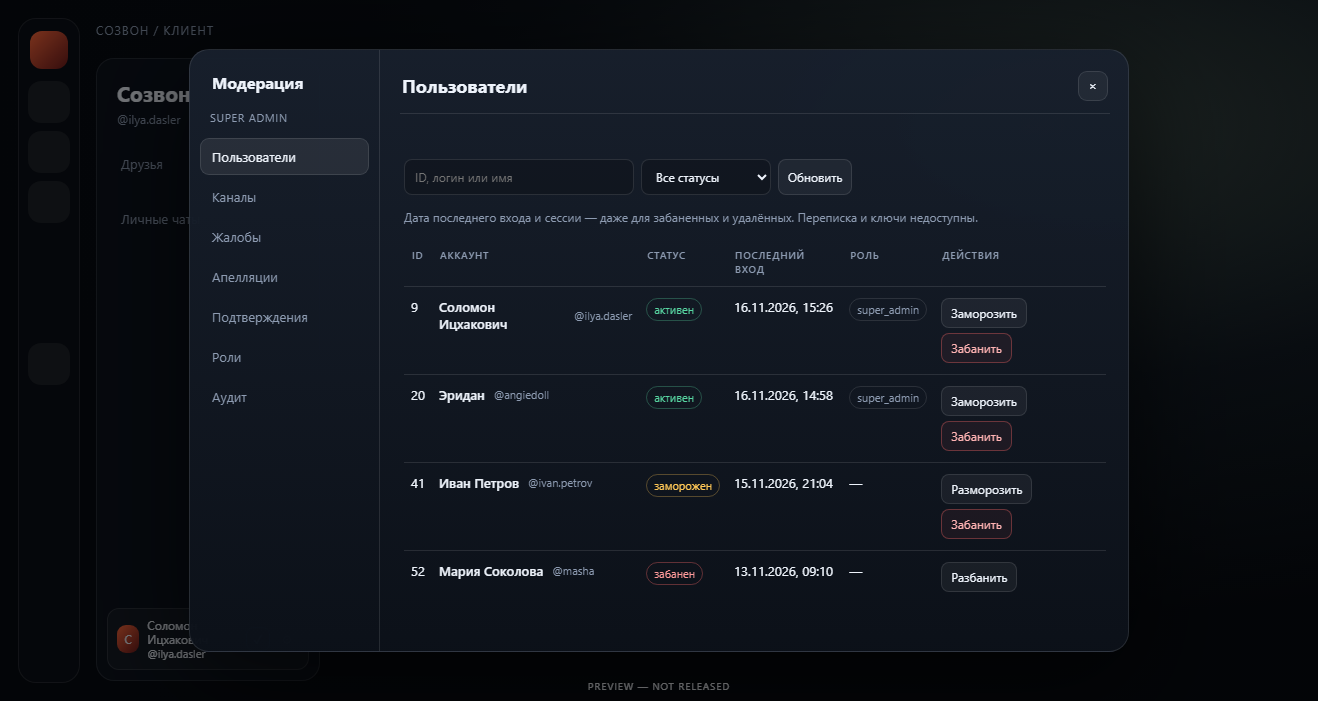
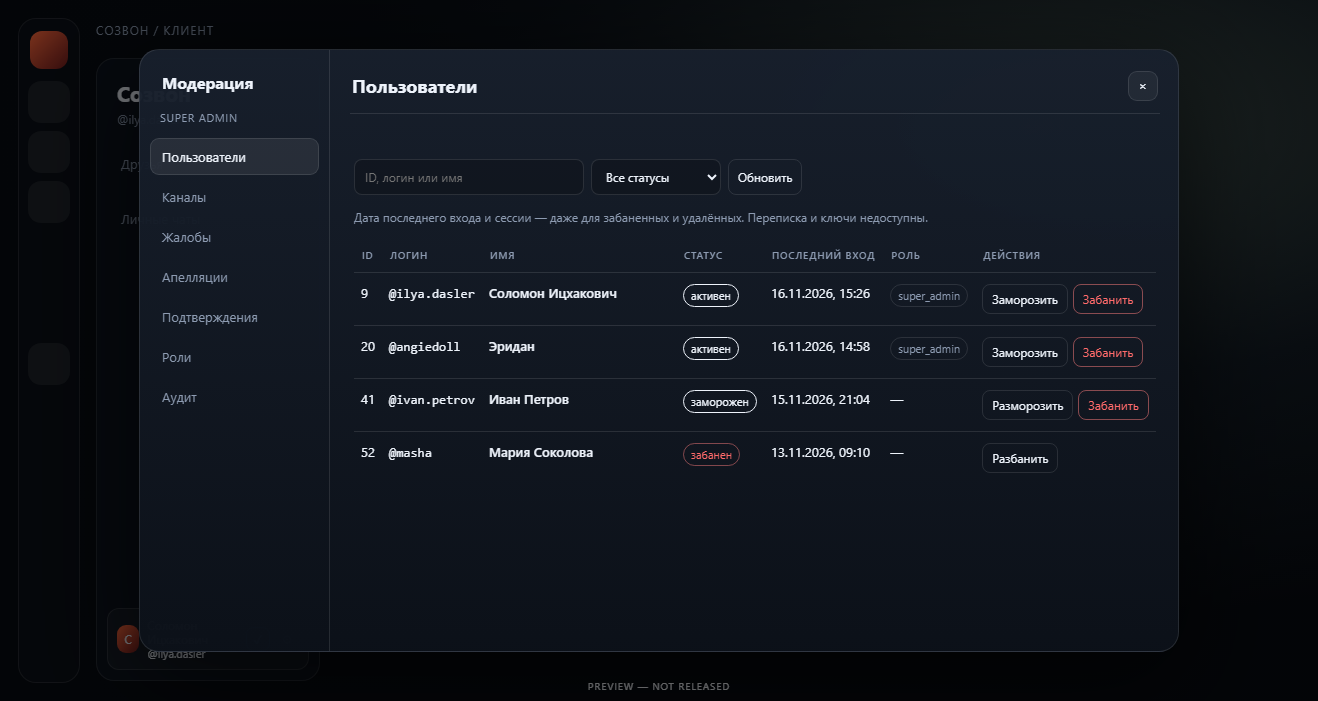
Show logins and theme moderation panel with app tokens

diff --git a/docs/moderation-preview.html b/docs/moderation-preview.html
@@ -45,7 +45,7 @@
     .btn { border:1px solid var(--line); background:rgba(255,255,255,.05); color:var(--text); border-radius:8px; padding:6px 9px; font:inherit; font-size:12px; }
     .btn.primary { background:var(--accent); color:#081020; border-color:var(--accent); font-weight:700; }
     .btn.danger { color:#ffb3b3; border-color:rgba(255,107,107,.35); background:rgba(255,107,107,.06); }
-    .moderation-card { width:min(940px,92vw); height:min(620px,86vh); grid-template-columns:190px minmax(0,1fr); overflow:hidden; }
+    .moderation-card { width:min(1040px,94vw); height:min(620px,86vh); grid-template-columns:190px minmax(0,1fr); overflow:hidden; }
     .moderation-content { overflow:hidden; }
     .demo-toolbar { display:flex; gap:7px; margin:0 0 14px; }
     .demo-toolbar input, .demo-toolbar select { border:1px solid var(--line); background:rgba(0,0,0,.18); color:var(--text); border-radius:8px; padding:8px 10px; font:inherit; font-size:12px; }
@@ -88,12 +88,12 @@
           <div class="demo-toolbar"><input placeholder="ID, логин или имя"><select><option>Все статусы</option></select><button class="btn">Обновить</button></div>
           <p class="mod-note">Дата последнего входа и сессии — даже для забаненных и удалённых. Переписка и ключи недоступны.</p>
           <table class="mod-table">
-            <thead><tr><th>ID</th><th>Аккаунт</th><th>Статус</th><th>Последний вход</th><th>Роль</th><th>Действия</th></tr></thead>
+            <thead><tr><th>ID</th><th>Логин</th><th>Имя</th><th>Статус</th><th>Последний вход</th><th>Роль</th><th>Действия</th></tr></thead>
             <tbody>
-              <tr><td>9</td><td><div class="mod-user">Соломон Ицхакович<div class="sub">@ilya.dasler</div></div></td><td><span class="mod-pill ok">активен</span></td><td>16.11.2026, 15:26</td><td><span class="mod-pill">super_admin</span></td><td><div class="mod-actions"><button class="btn">Заморозить</button><button class="btn danger">Забанить</button></div></td></tr>
-              <tr><td>20</td><td><div class="mod-user">Эридан<div class="sub">@angiedoll</div></div></td><td><span class="mod-pill ok">активен</span></td><td>16.11.2026, 14:58</td><td><span class="mod-pill">super_admin</span></td><td><div class="mod-actions"><button class="btn">Заморозить</button><button class="btn danger">Забанить</button></div></td></tr>
-              <tr><td>41</td><td><div class="mod-user">Иван Петров<div class="sub">@ivan.petrov</div></div></td><td><span class="mod-pill warn">заморожен</span></td><td>15.11.2026, 21:04</td><td>—</td><td><div class="mod-actions"><button class="btn">Разморозить</button><button class="btn danger">Забанить</button></div></td></tr>
-              <tr><td>52</td><td><div class="mod-user">Мария Соколова<div class="sub">@masha</div></div></td><td><span class="mod-pill danger">забанен</span></td><td>13.11.2026, 09:10</td><td>—</td><td><div class="mod-actions"><button class="btn">Разбанить</button></div></td></tr>
+              <tr><td>9</td><td><code>@ilya.dasler</code></td><td><div class="mod-user">Соломон Ицхакович</div></td><td><span class="mod-pill ok">активен</span></td><td>16.11.2026, 15:26</td><td><span class="mod-pill">super_admin</span></td><td><div class="mod-actions"><button class="btn">Заморозить</button><button class="btn danger">Забанить</button></div></td></tr>
+              <tr><td>20</td><td><code>@angiedoll</code></td><td><div class="mod-user">Эридан</div></td><td><span class="mod-pill ok">активен</span></td><td>16.11.2026, 14:58</td><td><span class="mod-pill">super_admin</span></td><td><div class="mod-actions"><button class="btn">Заморозить</button><button class="btn danger">Забанить</button></div></td></tr>
+              <tr><td>41</td><td><code>@ivan.petrov</code></td><td><div class="mod-user">Иван Петров</div></td><td><span class="mod-pill warn">заморожен</span></td><td>15.11.2026, 21:04</td><td>—</td><td><div class="mod-actions"><button class="btn">Разморозить</button><button class="btn danger">Забанить</button></div></td></tr>
+              <tr><td>52</td><td><code>@masha</code></td><td><div class="mod-user">Мария Соколова</div></td><td><span class="mod-pill danger">забанен</span></td><td>13.11.2026, 09:10</td><td>—</td><td><div class="mod-actions"><button class="btn">Разбанить</button></div></td></tr>
             </tbody>
           </table>
         </div>

diff --git a/client/renderer/moderation.css b/client/renderer/moderation.css
@@ -1,4 +1,6 @@
 .moderation-card {
+  background: var(--bg-2);
+  color: var(--text);
   width: min(1180px, 96vw);
   height: min(760px, 88vh);
   display: grid;
@@ -9,6 +11,9 @@
 .moderation-role { padding: 0 10px 10px; text-transform: uppercase; letter-spacing: .06em; font-size: 10px; }
 .moderation-main { min-width: 0; display: flex; flex-direction: column; }
 .moderation-content { min-width: 0; overflow: auto; padding: 0 4px 8px; }
+.moderation-content .btn { border-color: var(--line); background: var(--bg-3); color: var(--text); }
+.moderation-content .btn.primary { background: var(--accent); border-color: var(--accent); color: var(--accent-contrast, #fff); }
+.moderation-content .btn.danger { background: transparent; border-color: color-mix(in srgb, var(--danger) 45%, var(--line)); color: var(--danger); }
 .moderation-toolbar { display: flex; gap: 8px; flex-wrap: wrap; margin-bottom: 12px; }
 .moderation-toolbar input { max-width: 300px; }
 .moderation-toolbar select { max-width: 190px; }
@@ -16,16 +21,16 @@
 .mod-table th, .mod-table td { padding: 10px 8px; border-bottom: 1px solid var(--line); text-align: left; vertical-align: top; }
 .mod-table th { color: var(--muted); font-size: 10px; letter-spacing: .07em; text-transform: uppercase; font-weight: 600; }
 .mod-table tr:last-child td { border-bottom: 0; }
-.mod-table tr:hover td { background: rgba(255,255,255,.025); }
+.mod-table tr:hover td { background: color-mix(in srgb, var(--bg-5) 45%, transparent); }
 .mod-user { display: flex; align-items: center; gap: 9px; min-width: 180px; }
 .mod-user .avatar { width: 28px; height: 28px; flex: 0 0 auto; }
 .mod-actions { display: flex; gap: 5px; flex-wrap: wrap; }
 .mod-pill { display: inline-flex; align-items: center; border: 1px solid var(--line); border-radius: 999px; padding: 3px 7px; font-size: 11px; color: var(--muted); white-space: nowrap; }
-.mod-pill.ok { color: #58d6a2; border-color: rgba(88,214,162,.3); }
-.mod-pill.warn { color: #ffc857; border-color: rgba(255,200,87,.3); }
-.mod-pill.danger { color: #ff9b9b; border-color: rgba(255,107,107,.35); }
+.mod-pill.ok { color: var(--ok); border-color: color-mix(in srgb, var(--ok) 38%, var(--line)); }
+.mod-pill.warn { color: var(--accent-2); border-color: color-mix(in srgb, var(--accent-2) 38%, var(--line)); }
+.mod-pill.danger { color: var(--danger); border-color: color-mix(in srgb, var(--danger) 42%, var(--line)); }
 .mod-empty { padding: 34px; text-align: center; color: var(--muted); }
-.mod-form { display: flex; gap: 8px; flex-wrap: wrap; align-items: end; border: 1px solid var(--line); border-radius: 12px; padding: 12px; margin-bottom: 14px; }
+.mod-form { display: flex; gap: 8px; flex-wrap: wrap; align-items: end; border: 1px solid var(--line); border-radius: var(--r-l, 12px); padding: 12px; margin-bottom: 14px; background: color-mix(in srgb, var(--bg-3) 35%, transparent); }
 .mod-form label { display: grid; gap: 5px; font-size: 11px; color: var(--muted); }
 .mod-form input, .mod-form select { width: 150px; }
 .mod-note { color: var(--muted); font-size: 12px; line-height: 1.45; margin: 0 0 12px; }

diff --git a/client/renderer/moderation.js b/client/renderer/moderation.js
@@ -62,9 +62,10 @@
       const q = encodeURIComponent(el('mod-users-q').value.trim());
       const status = encodeURIComponent(el('mod-users-status').value);
       const data = await api(`/users?q=${q}&status=${status}&limit=100`);
-      el('mod-users-list').innerHTML = table(data.users, ['ID', 'Аккаунт', 'Статус', 'Последний вход', 'Роль', 'Действия'], (user) => `
+      el('mod-users-list').innerHTML = table(data.users, ['ID', 'Логин', 'Имя', 'Статус', 'Последний вход', 'Роль', 'Действия'], (user) => `
         <td><code>${user.ID}</code></td>
-        <td><b>${esc(user.DisplayName)}</b><div class="muted small">@${esc(user.Username)}</div></td>
+        <td><code>@${esc(user.Username)}</code></td>
+        <td><b>${esc(user.DisplayName)}</b></td>
         <td>${user.BannedAt ? '<span class="mod-pill danger">забанен</span>' : user.SuspendedAt ? '<span class="mod-pill warn">заморожен</span>' : user.DeletedAt ? '<span class="mod-pill">удалён</span>' : '<span class="mod-pill ok">активен</span>'}</td>
         <td>${fmt(user.LastLoginAt)}</td>
         <td>${user.Role ? `<span class="mod-pill">${esc(user.Role)}</span>` : '—'}</td>
